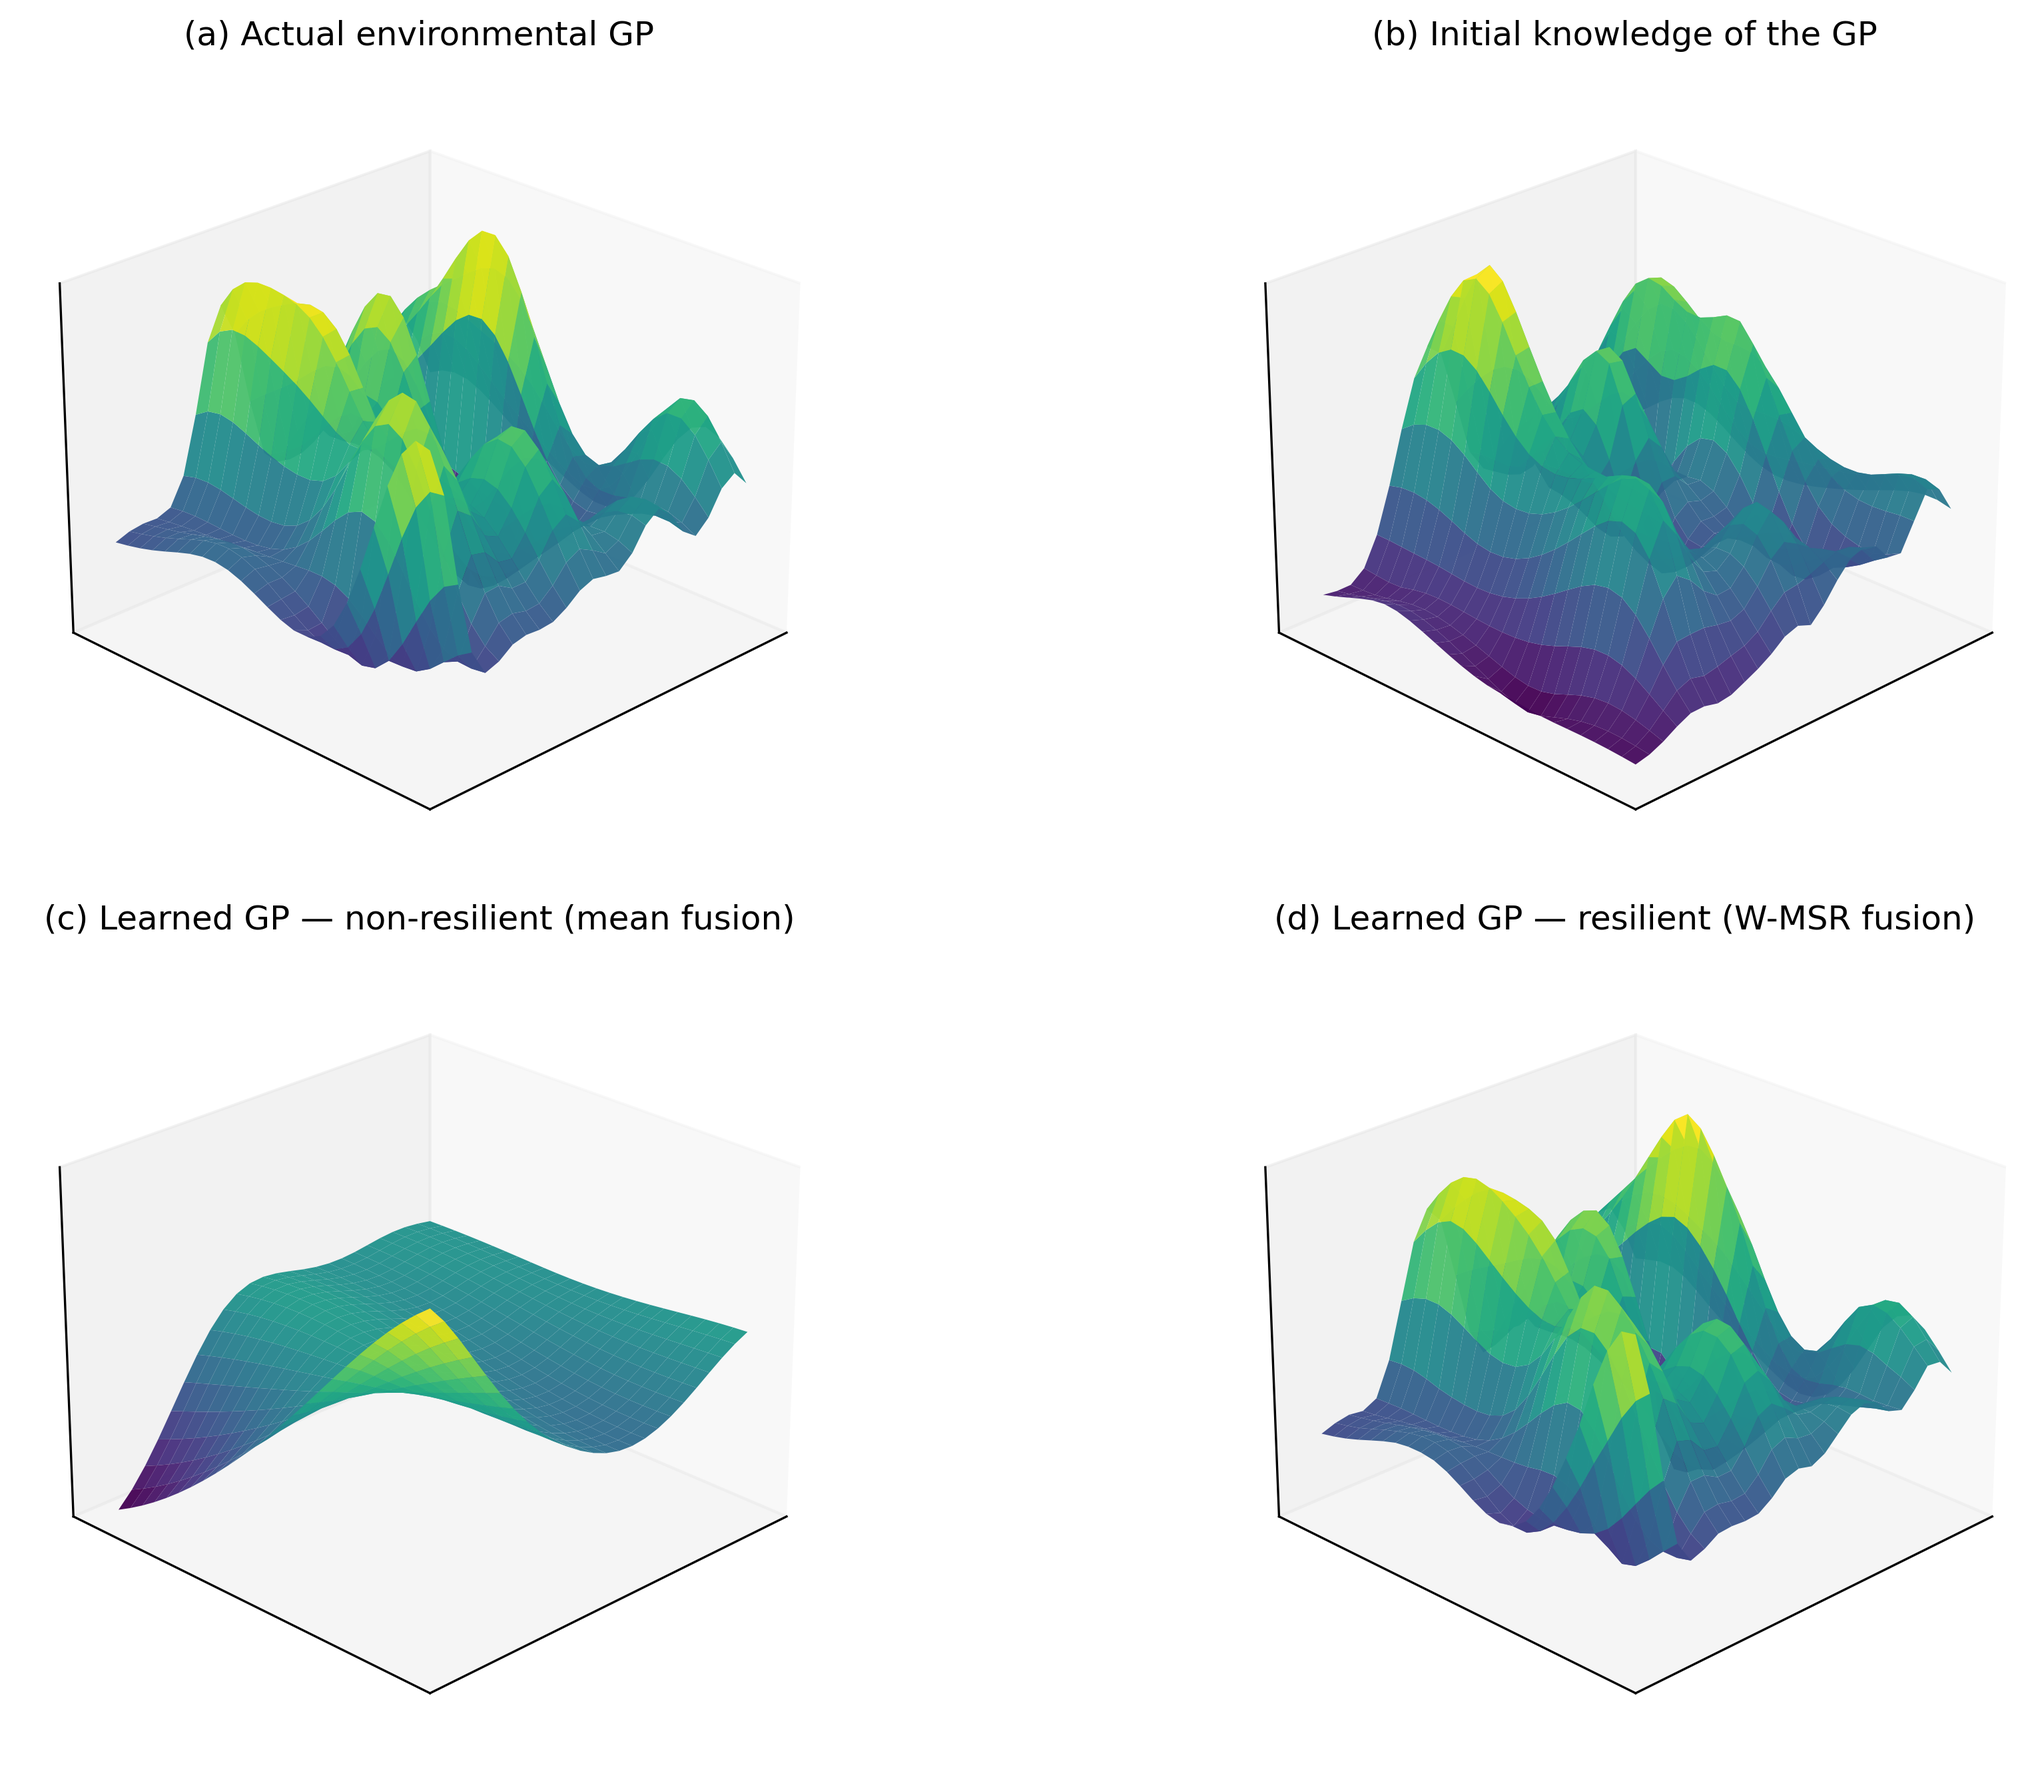
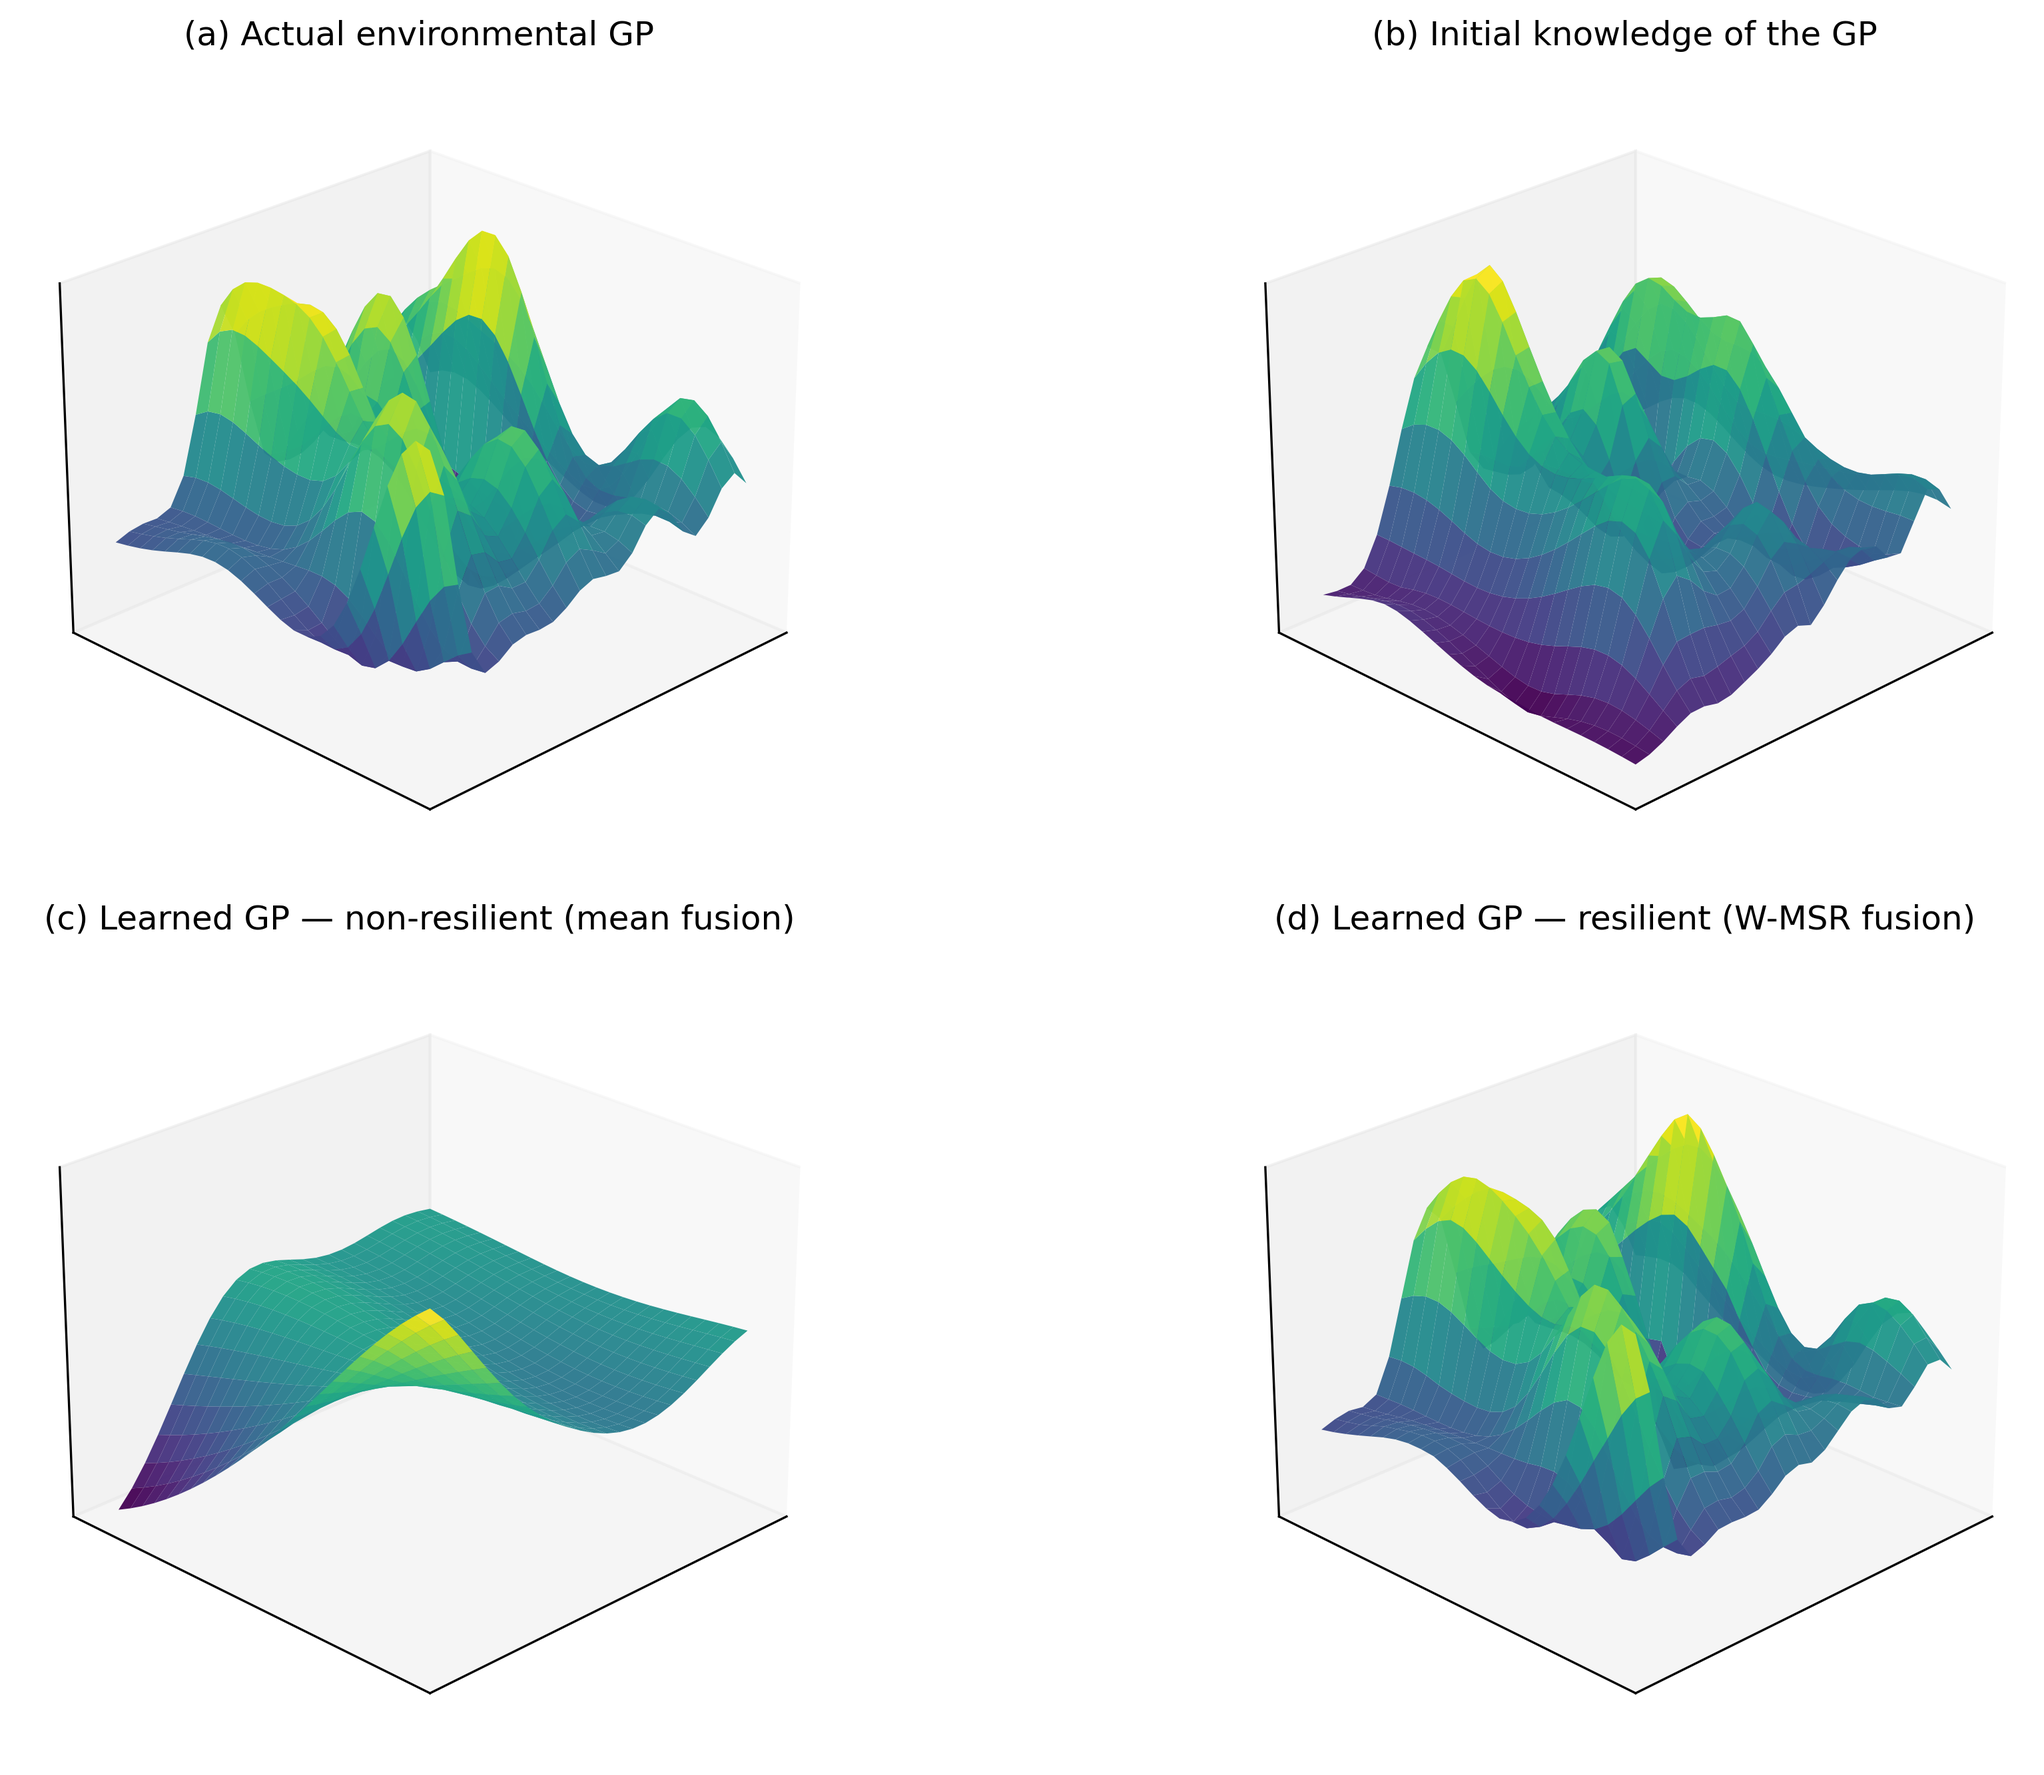
Update W-MSR experiment: N=7 with 3 faulty agents and new results plot

diff --git a/multi_agent_resilience.py b/multi_agent_resilience.py
@@ -85,10 +85,8 @@ def aggregate(hypers_list, mode="mean", F=1):
 
     raise ValueError("mode must be 'mean' or 'wmsr'")
 
-
-# -----------------------------
 # Fault model (spatially inconsistent attack)
-# -----------------------------
+
 def spatial_attack(x_new, bias):
     """
     Location-dependent corruption so faulty agents learn different hypers.
@@ -96,9 +94,6 @@ def spatial_attack(x_new, bias):
     """
     x1 = float(x_new[0, 0])
     x2 = float(x_new[0, 1])
-
-    # Keep it smooth but clearly non-constant. Works for most normalized grid coordinates.
-    # If your grid is not in [0,1], this still varies spatially.
     return float(bias * np.sin(2 * np.pi * x1) * np.cos(2 * np.pi * x2))
 
 
@@ -255,10 +250,6 @@ def run_multi_agent(
     # default: average agent means (kept for consistency with your old code)
     return np.mean(preds, axis=0)
 
-
-# -----------------------------
-# Plotting
-# -----------------------------
 def plot_3d_panel(ax, Z, title, elev=25, azim=-135):
     n = Z.shape[0]
     X, Y = np.meshgrid(np.arange(n), np.arange(n))
@@ -299,21 +290,24 @@ def main():
     y_init = gp_init.predict(grid)
     Z_init = y_init.reshape(GRID_RES, GRID_RES)
 
-    # -----------------------------
-    # Settings (these will show a difference)
-    # -----------------------------
+# -----------------------------
+# Settings
+# -----------------------------
     N = 7
+
     T = 50
     meeting_every = 10
 
-    n_faulty = 2
-    F = 2  # for N=7, trimming 2 low + 2 high leaves 3 values
+    n_faulty = 3
+    F = 3
 
     faulty_bias = 7.0
     faulty_noise_std = 3.0
     clean_noise_std = 0.0
 
     seed = 0
+
+
 
     # Pick faulty set ONCE so mean vs wmsr is apples-to-apples
     rng = np.random.default_rng(seed)
@@ -322,10 +316,8 @@ def main():
     faulty_set = set(idxs[:n_faulty])
     print(f"[main] fixed faulty_set={sorted(list(faulty_set))} (N={N}, n_faulty={n_faulty}, F={F})")
 
-    # If you want even clearer separation, set freeze_after_meeting=False
     freeze_after_meeting = True
 
-    # This makes the resilient output extremely clear (recommended)
     fuse_predictions = True
 
     # (c) Non-resilient
@@ -374,12 +366,10 @@ def main():
     )
     Z_res = y_res.reshape(GRID_RES, GRID_RES)
 
-    # Print numeric proof
+    # Print in number
     print(f"[metric] RMSE init    : {rmse(y_init, y_actual):.4f}")
     print(f"[metric] RMSE nonres  : {rmse(y_nonres, y_actual):.4f}")
     print(f"[metric] RMSE resilient: {rmse(y_res, y_actual):.4f}")
-
-    # 3D 2x2 plot
     fig = plt.figure(figsize=(14, 9))
 
     ax1 = fig.add_subplot(2, 2, 1, projection="3d")
